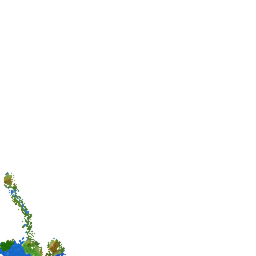
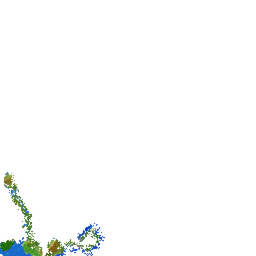
Karte: 2026-10-22T19:53:38Z

Changed region(s): [[0.25, 0.875, 0.4062, 1.0]]

diff --git a/map/unmined.map.regions.js b/map/unmined.map.regions.js
@@ -1,6 +1,6 @@
 var UnminedRegions = [
-{ x: 0, z: 0, m: new Uint32Array([3,3,3,3,0,0,0,0,0,0,0,0,0,0,0,0,0,0,0,0,0,0,0,0,0,0,0,0,0,0,0,0,0,0,0,0,0,0,0,0,0,0,0,0,0,0,0,0,0,0,0,0,0,0,0,0,0,0,0,0,0,0,0,0,0,0,0,0,0,0,0,0,0,0,0,0,0,0,0,0,0,0,0,0,0,0,0,0,0,0,0,0,0,0,0,0,0,0,0,0,0,0,0,0,0,0,0,0,0,0,0,0,0,0,0,0,0,0,0,0,0,0,0,0,0,0,0,0,0,0,0,0,0,0,0,0,0,0,0,0,0,0,0,0,0,0,0,0,0,0,0,0,0,0,0,0,0,0,0,0,0,0,0,0,0,0,0,0,0,0,0,0,0,0,0,0,0,0,0,0,0,0,0,0,0,0,0,0,0,0,0,0,0,0,0,0,0,0,0,0,0,0,0,0,0,0,0,0,0,0,0,0,0,0,0,0,0,0,0,0,0,0,0,0,0,0,0,0,0,0,0,0,0,0,0,0,0,0,0,0,0,0,0,0,0,0,0,0,0,0,0,0,0,0,0,0]) },
-{ x: 0, z: -1, m: new Uint32Array([0,0,0,0,0,0,0,0,0,0,0,0,0,0,0,0,0,0,0,0,0,0,0,0,0,0,0,0,0,1,1,7,0,0,0,0,0,0,0,0,0,0,0,0,0,0,0,0,0,0,0,0,0,0,0,0,0,0,0,0,0,0,0,0,0,0,0,0,0,0,0,0,0,0,0,0,0,0,0,0,0,0,0,0,0,0,0,0,0,0,0,0,0,0,0,0,0,0,0,0,0,0,0,0,0,0,0,0,0,0,0,0,0,0,0,0,0,0,0,0,0,0,0,0,0,0,0,0,0,0,0,0,0,0,0,0,0,0,0,0,0,0,0,0,0,0,0,0,0,0,0,0,0,0,0,0,0,0,0,0,0,0,0,0,0,0,0,0,0,0,0,0,0,0,0,0,0,0,0,0,0,0,0,0,0,0,0,0,0,0,0,0,0,0,0,0,0,0,0,0,0,0,0,0,0,0,0,0,0,0,0,0,0,0,0,0,0,0,0,0,0,0,0,0,0,0,0,0,0,0,0,0,0,0,0,0,0,0,0,0,0,0,0,0,0,0,0,0,0,0,0,0,0,0,0,0]) },
+{ x: 0, z: 0, m: new Uint32Array([7,3,3,3,0,0,0,0,0,0,0,0,0,0,0,0,0,0,0,0,0,0,0,0,0,0,0,0,0,0,0,0,0,0,0,0,0,0,0,0,0,0,0,0,0,0,0,0,0,0,0,0,0,0,0,0,0,0,0,0,0,0,0,0,0,0,0,0,0,0,0,0,0,0,0,0,0,0,0,0,0,0,0,0,0,0,0,0,0,0,0,0,0,0,0,0,0,0,0,0,0,0,0,0,0,0,0,0,0,0,0,0,0,0,0,0,0,0,0,0,0,0,0,0,0,0,0,0,0,0,0,0,0,0,0,0,0,0,0,0,0,0,0,0,0,0,0,0,0,0,0,0,0,0,0,0,0,0,0,0,0,0,0,0,0,0,0,0,0,0,0,0,0,0,0,0,0,0,0,0,0,0,0,0,0,0,0,0,0,0,0,0,0,0,0,0,0,0,0,0,0,0,0,0,0,0,0,0,0,0,0,0,0,0,0,0,0,0,0,0,0,0,0,0,0,0,0,0,0,0,0,0,0,0,0,0,0,0,0,0,0,0,0,0,0,0,0,0,0,0,0,0,0,0,0,0]) },
+{ x: 0, z: -1, m: new Uint32Array([0,0,0,0,0,0,0,0,0,0,0,0,0,0,0,0,0,0,0,0,0,0,0,0,0,0,0,0,0,1,5,15,0,0,0,0,0,0,0,0,0,0,0,0,0,0,0,0,0,0,0,0,0,0,0,0,0,0,0,0,0,0,0,0,0,0,0,0,0,0,0,0,0,0,0,0,0,0,0,0,0,0,0,0,0,0,0,0,0,0,0,0,0,0,0,0,0,0,0,0,0,0,0,0,0,0,0,0,0,0,0,0,0,0,0,0,0,0,0,0,0,0,0,0,0,0,0,0,0,0,0,0,0,0,0,0,0,0,0,0,0,0,0,0,0,0,0,0,0,0,0,0,0,0,0,0,0,0,0,0,0,0,0,0,0,0,0,0,0,0,0,0,0,0,0,0,0,0,0,0,0,0,0,0,0,0,0,0,0,0,0,0,0,0,0,0,0,0,0,0,0,0,0,0,0,0,0,0,0,0,0,0,0,0,0,0,0,0,0,0,0,0,0,0,0,0,0,0,0,0,0,0,0,0,0,0,0,0,0,0,0,0,0,0,0,0,0,0,0,0,0,0,0,0,0,0]) },
 { x: -1, z: 0, m: new Uint32Array([3221225472,2147483648,2147483648,2147483648,0,0,0,0,0,0,0,0,0,0,0,0,0,0,0,0,0,0,0,0,0,0,0,0,0,0,0,0,0,0,0,0,0,0,0,0,0,0,0,0,0,0,0,0,0,0,0,0,0,0,0,0,0,0,0,0,0,0,0,0,0,0,0,0,0,0,0,0,0,0,0,0,0,0,0,0,0,0,0,0,0,0,0,0,0,0,0,0,0,0,0,0,0,0,0,0,0,0,0,0,0,0,0,0,0,0,0,0,0,0,0,0,0,0,0,0,0,0,0,0,0,0,0,0,0,0,0,0,0,0,0,0,0,0,0,0,0,0,0,0,0,0,0,0,0,0,0,0,0,0,0,0,0,0,0,0,0,0,0,0,0,0,0,0,0,0,0,0,0,0,0,0,0,0,0,0,0,0,0,0,0,0,0,0,0,0,0,0,0,0,0,0,0,0,0,0,0,0,0,0,0,0,0,0,0,0,0,0,0,0,0,0,0,0,0,0,0,0,0,0,0,0,0,0,0,0,0,0,0,0,0,0,0,0,0,0,0,0,0,0,0,0,0,0,0,0,0,0,0,0,0,0]) },
 { x: -1, z: -1, m: new Uint32Array([0,0,0,0,0,0,0,0,0,0,0,0,0,0,0,0,0,0,0,0,0,0,0,0,0,0,0,0,0,0,0,2147483648,0,0,0,0,0,0,0,0,0,0,0,0,0,0,0,0,0,0,0,0,0,0,0,0,0,0,0,0,0,0,0,0,0,0,0,0,0,0,0,0,0,0,0,0,0,0,0,0,0,0,0,0,0,0,0,0,0,0,0,0,0,0,0,0,0,0,0,0,0,0,0,0,0,0,0,0,0,0,0,0,0,0,0,0,0,0,0,0,0,0,0,0,0,0,0,0,0,0,0,0,0,0,0,0,0,0,0,0,0,0,0,0,0,0,0,0,0,0,0,0,0,0,0,0,0,0,0,0,0,0,0,0,0,0,0,0,0,0,0,0,0,0,0,0,0,0,0,0,0,0,0,0,0,0,0,0,0,0,0,0,0,0,0,0,0,0,0,0,0,0,0,0,0,0,0,0,0,0,0,0,0,0,0,0,0,0,0,0,0,0,0,0,0,0,0,0,0,0,0,0,0,0,0,0,0,0,0,0,0,0,0,0,0,0,0,0,0,0,0,0,0,0,0,0]) },
 ];

diff --git a/map/unmined.map.properties.js b/map/unmined.map.properties.js
@@ -6,7 +6,7 @@ var UnminedMapProperties = {
     imageFormat: "png",
     minRegionX: -2,
     minRegionZ: -3,
-    maxRegionX: 2,
+    maxRegionX: 3,
     maxRegionZ: 3,
     worldName: "bedrock-19133",
     background: "",
